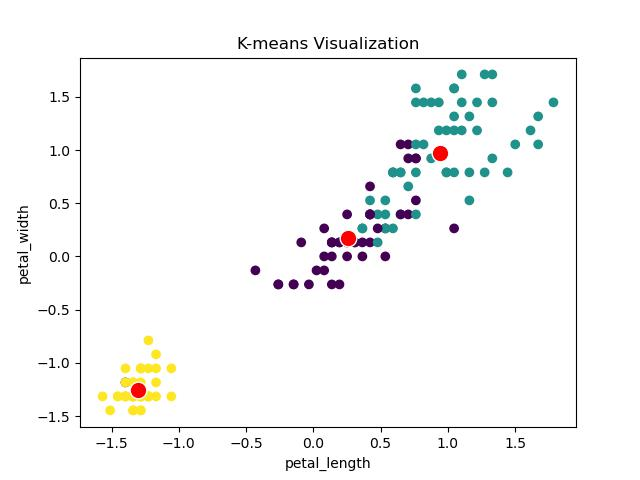
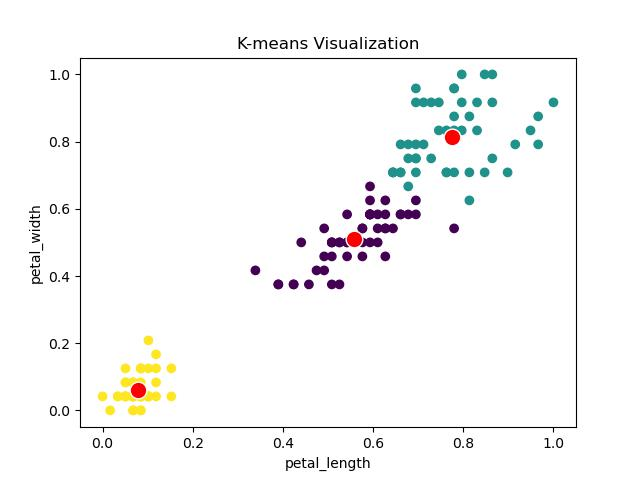
k means now calculates 2 and 4 dimensional distances and plots them properly

diff --git a/kmeans.py b/kmeans.py
@@ -7,7 +7,7 @@ import random as rand
 def initialize_centroids(data, data_length, K):
     centroids = []
     for i in range(K):
-        centroid = data[rand.randint(0, data_length-1)]
+        centroid = data[rand.randint(0, data_length - 1)]
         centroids.append(centroid)
     return centroids
 
@@ -35,7 +35,7 @@ def reassign_centroids(data, data_length, assignments, K):
         for n in range(data_length):
             if assignments[n] == i:
                 clustered_points.append(data[n])
-        if len(clustered_points)>0:
+        if len(clustered_points) > 0:
             cluster_mean = np.mean(clustered_points, axis=0)
         else:
             cluster_mean = np.mean(0)
@@ -60,7 +60,9 @@ def kmeans(data, data_length, K, iterations=100, tolerance_level=0.0001):
     wcss_list = []
     assignments = []
     centroids = initialize_centroids(data, data_length, K)
-    while len(wcss_list) <= 1 or (current_iteration < iterations and np.absolute(wcss_list[current_iteration] - wcss_list[current_iteration - 1])/ wcss_list[current_iteration - 1] >= tolerance_level):
+    while len(wcss_list) <= 1 or (current_iteration < iterations and np.absolute(
+            wcss_list[current_iteration] - wcss_list[current_iteration - 1]) / wcss_list[
+                                      current_iteration - 1] >= tolerance_level):
         current_iteration += 1
         assignments = pick_cluster(data, centroids)
         centroids = reassign_centroids(data, data_length, assignments, K)
@@ -73,20 +75,52 @@ def kmeans(data, data_length, K, iterations=100, tolerance_level=0.0001):
 columns = ['sepal_length', 'sepal_width', 'petal_length', 'petal_width', 'target']
 iris_data = pd.read_csv('data.csv', names=columns)
 
-
 for column in iris_data.columns:
-    iris_data[column] = (iris_data[column]-np.mean(iris_data[column]))/np.std(iris_data[column])
-    # iris_data[column] = \
-    #     (iris_data[column] - iris_data[column].min()) / (iris_data[column].max() - iris_data[column].min())
+    iris_data[column] = \
+        (iris_data[column] - iris_data[column].min()) / (iris_data[column].max() - iris_data[column].min())
 
 values_list = iris_data.drop(columns=['target']).values.tolist()
 
+f = open("output/kMeans/raport.txt", "w")
+
+iteration_list = []
+wcss_list = []
+for k in range(2, 11):
+    calculated_kmeans = kmeans(values_list, len(values_list), K=k)
+    print(f"WCSS list for k={k}: {calculated_kmeans[2]}")
+    wcss_list.append([k, calculated_kmeans[2][-1]])
+    iteration_list.append(calculated_kmeans[3])
+    f.write(f"Amount of iterations for k={k}:{calculated_kmeans[3]}, WCSS = {calculated_kmeans[2][-1]}\n")
+
+plt.plot(*zip(*wcss_list))
+plt.savefig("output/kMeans/kMeansElbow.jpg")
+plt.show()
+f.close()
+
 calculated_kmeans = kmeans(values_list, len(values_list), K=3)
 
-for a1 in range(0,4):
-    for a2 in range(a1+1, 4):
+for a1 in range(0, 4):
+    for a2 in range(a1 + 1, 4):
         centroids_x = [calculated_kmeans[1][x][a1] for x in range(len(calculated_kmeans[1]))]
         centroids_y = [calculated_kmeans[1][x][a2] for x in range(len(calculated_kmeans[1]))]
+        x = iris_data[columns[a1]]
+        y = iris_data[columns[a2]]
+        assignments = calculated_kmeans[0]
+        plt.scatter(x, y, c=assignments)
+        plt.plot(centroids_x, centroids_y, c='white', marker='.', linewidth='0.01', markerfacecolor='red',
+                 markersize=24)
+        plt.title("K-means Visualization, 4-dimensional calculation")
+        plt.xlabel(columns[a1])
+        plt.ylabel(columns[a2])
+        plt.savefig("output/kMeans/" + columns[a1] + "-" + columns[a2] + "4-dimensional.jpg")
+        plt.show()
+
+for a1 in range(0, 4):
+    for a2 in range(a1 + 1, 4):
+        values_list = iris_data.iloc[:, [a1, a2]].values.tolist()
+        calculated_kmeans = kmeans(values_list, len(values_list), K=3)
+        centroids_x = [calculated_kmeans[1][x][0] for x in range(len(calculated_kmeans[1]))]
+        centroids_y = [calculated_kmeans[1][x][1] for x in range(len(calculated_kmeans[1]))]
         x = iris_data[columns[a1]]
         y = iris_data[columns[a2]]
         assignments = calculated_kmeans[0]
@@ -96,21 +130,5 @@ for a1 in range(0,4):
         plt.title("K-means Visualization")
         plt.xlabel(columns[a1])
         plt.ylabel(columns[a2])
-        plt.savefig("output/kMeans/"+columns[a1]+"-"+columns[a2]+".jpg")
+        plt.savefig("output/kMeans/" + columns[a1] + "-" + columns[a2] + ".jpg")
         plt.show()
-        #plt.clf()
-f = open("output/kMeans/raport.txt", "w")
-iteration_list = []
-wcss_list = []
-for k in range (2,11):
-    calculated_kmeans = kmeans(values_list, len(values_list), K=k)
-    print(f"WCSS list for k={k}: {calculated_kmeans[2]}")
-    wcss_list.append([k,calculated_kmeans[2][-1]])
-    iteration_list.append(calculated_kmeans[3])
-    f.write(f"Amount of iterations for k={k}:{calculated_kmeans[3]}, WCSS = {calculated_kmeans[2][-1]}\n")
-
-plt.plot(*zip(*wcss_list))
-plt.savefig("output/kMeans/kMeansElbow.jpg")
-plt.show()
-f.close()
-
